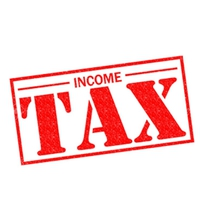
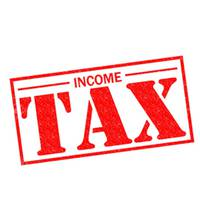
image reresized :/

diff --git a/reduceImage.py b/reduceImage.py
@@ -7,8 +7,8 @@ output_directory = "./assets/resizedAward/"
 if not os.path.exists(output_directory):
     os.makedirs(output_directory)
 
-target_size = (250, 250)
-quality = 100
+target_size = (150, 150)
+quality = 70
 
 def resize_and_compress_image(input_path, output_path):
     with Image.open(input_path) as img:
